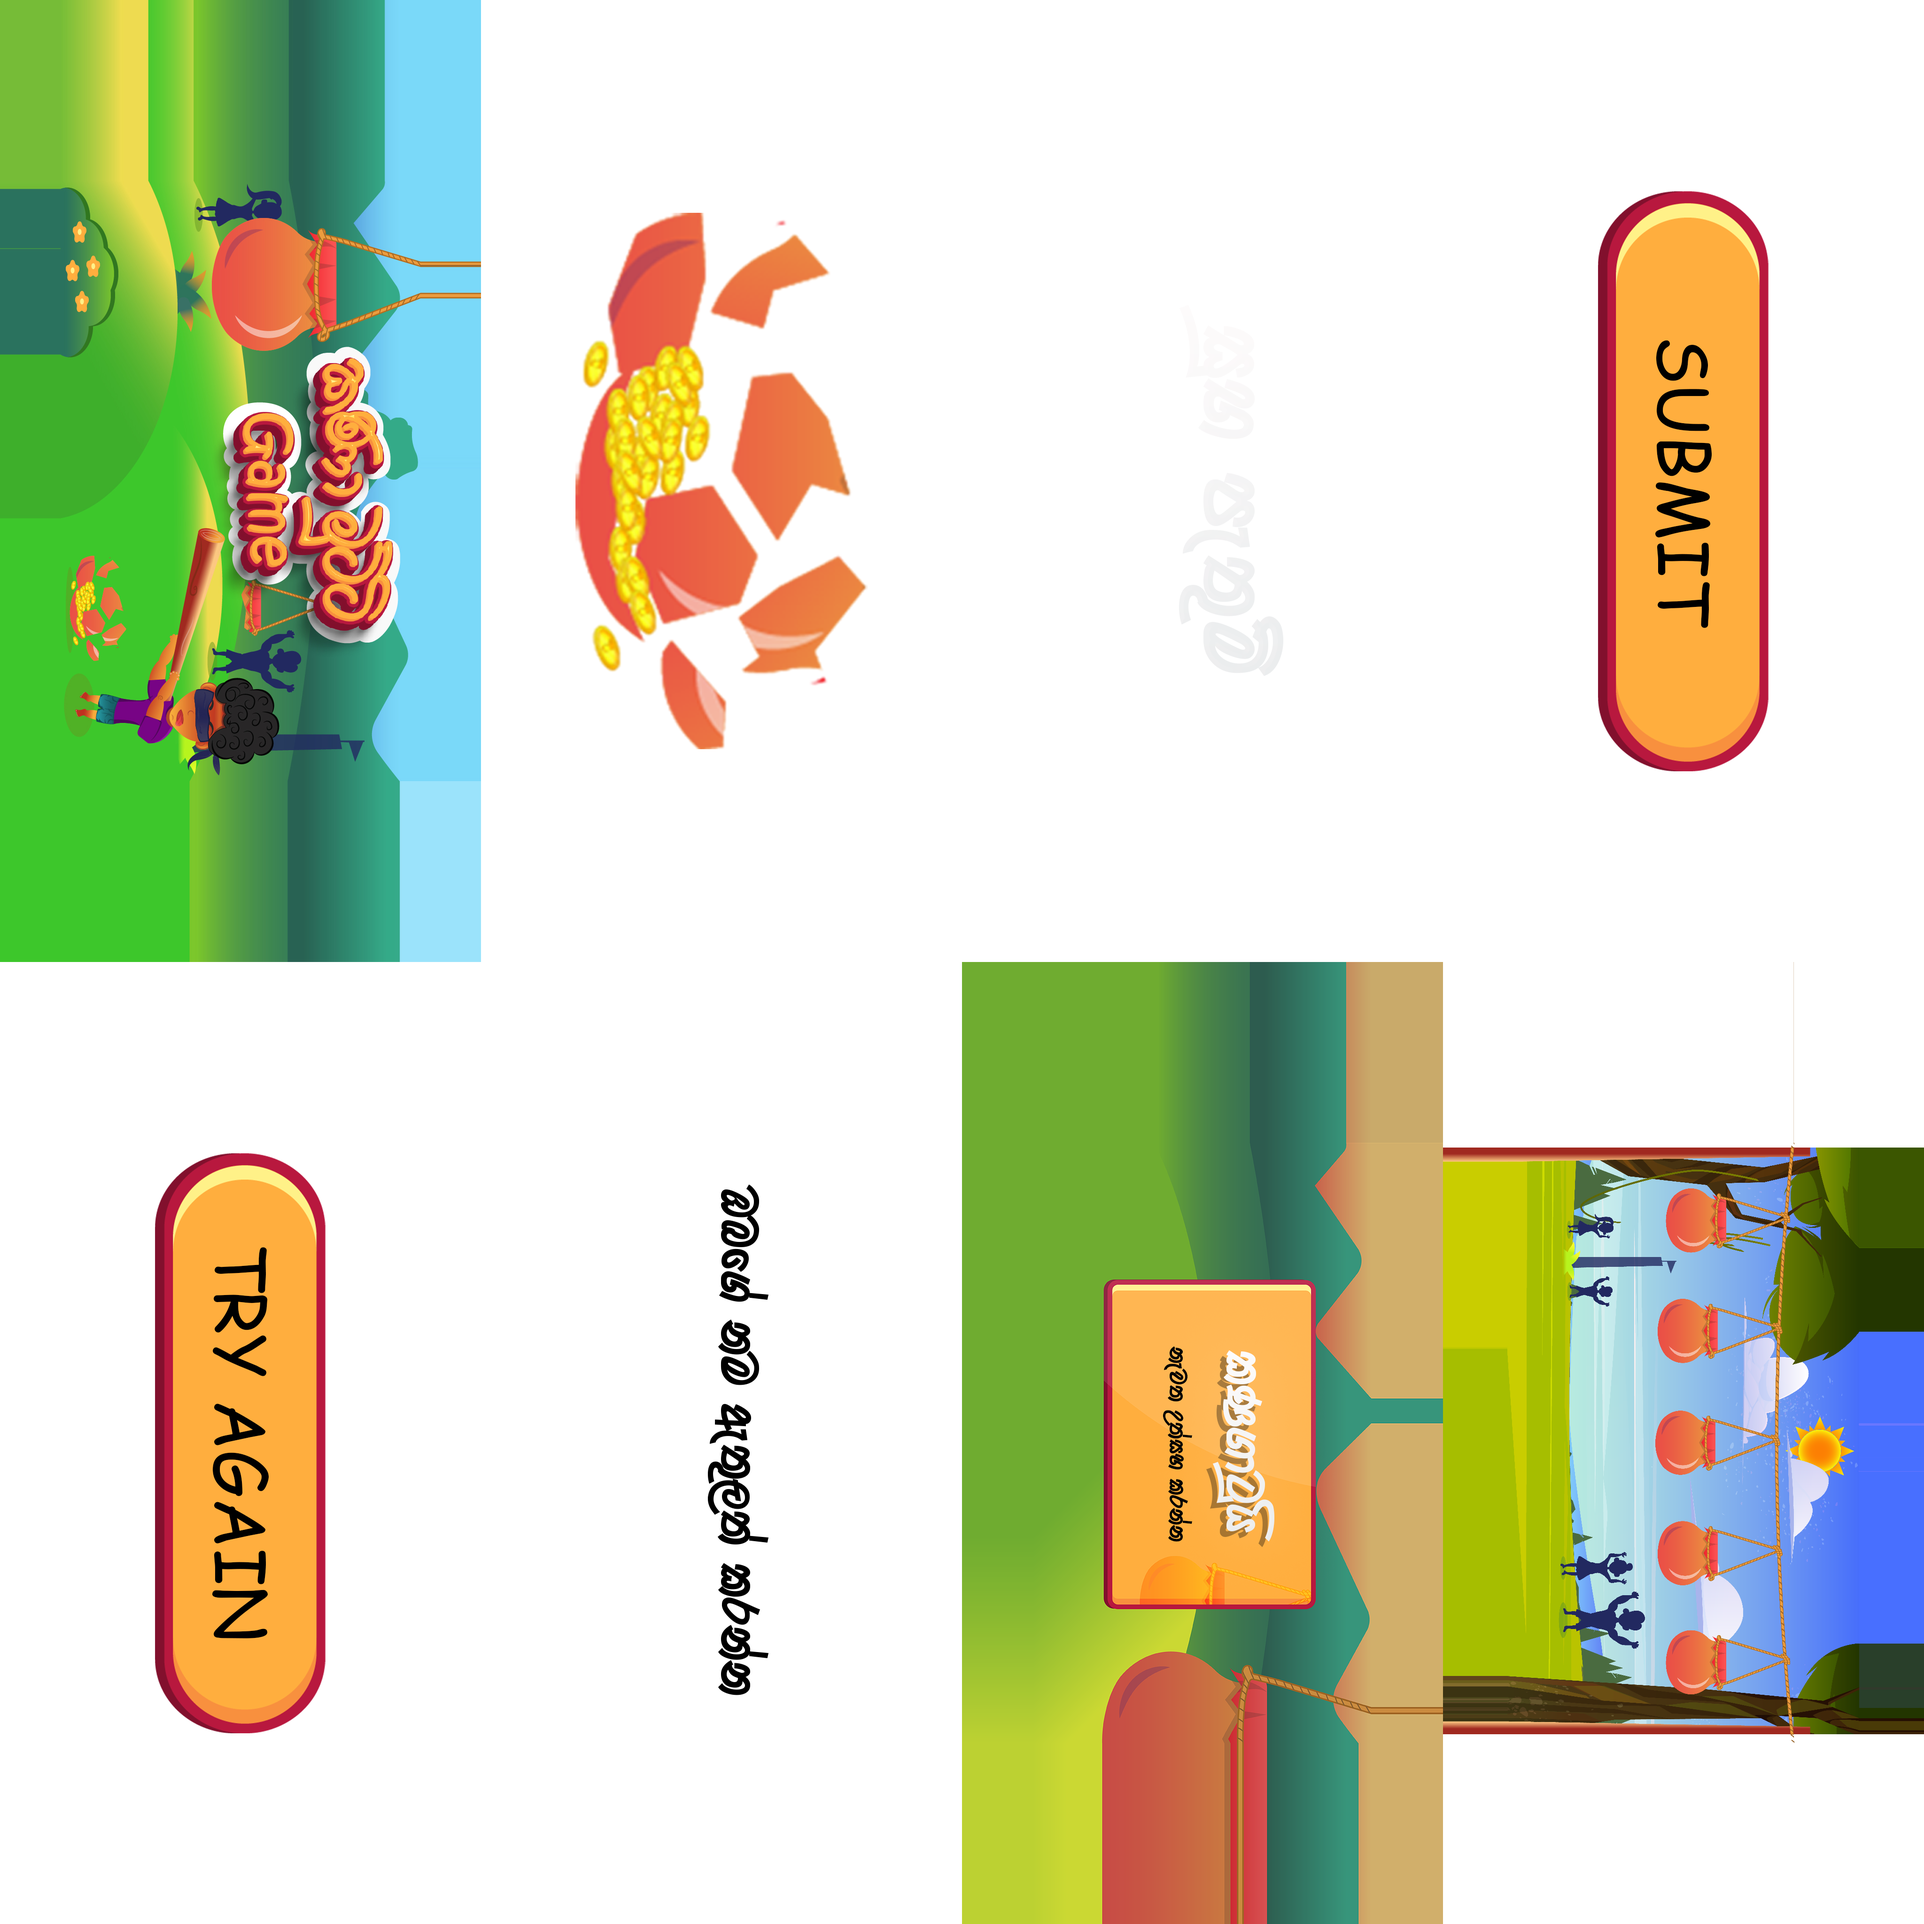
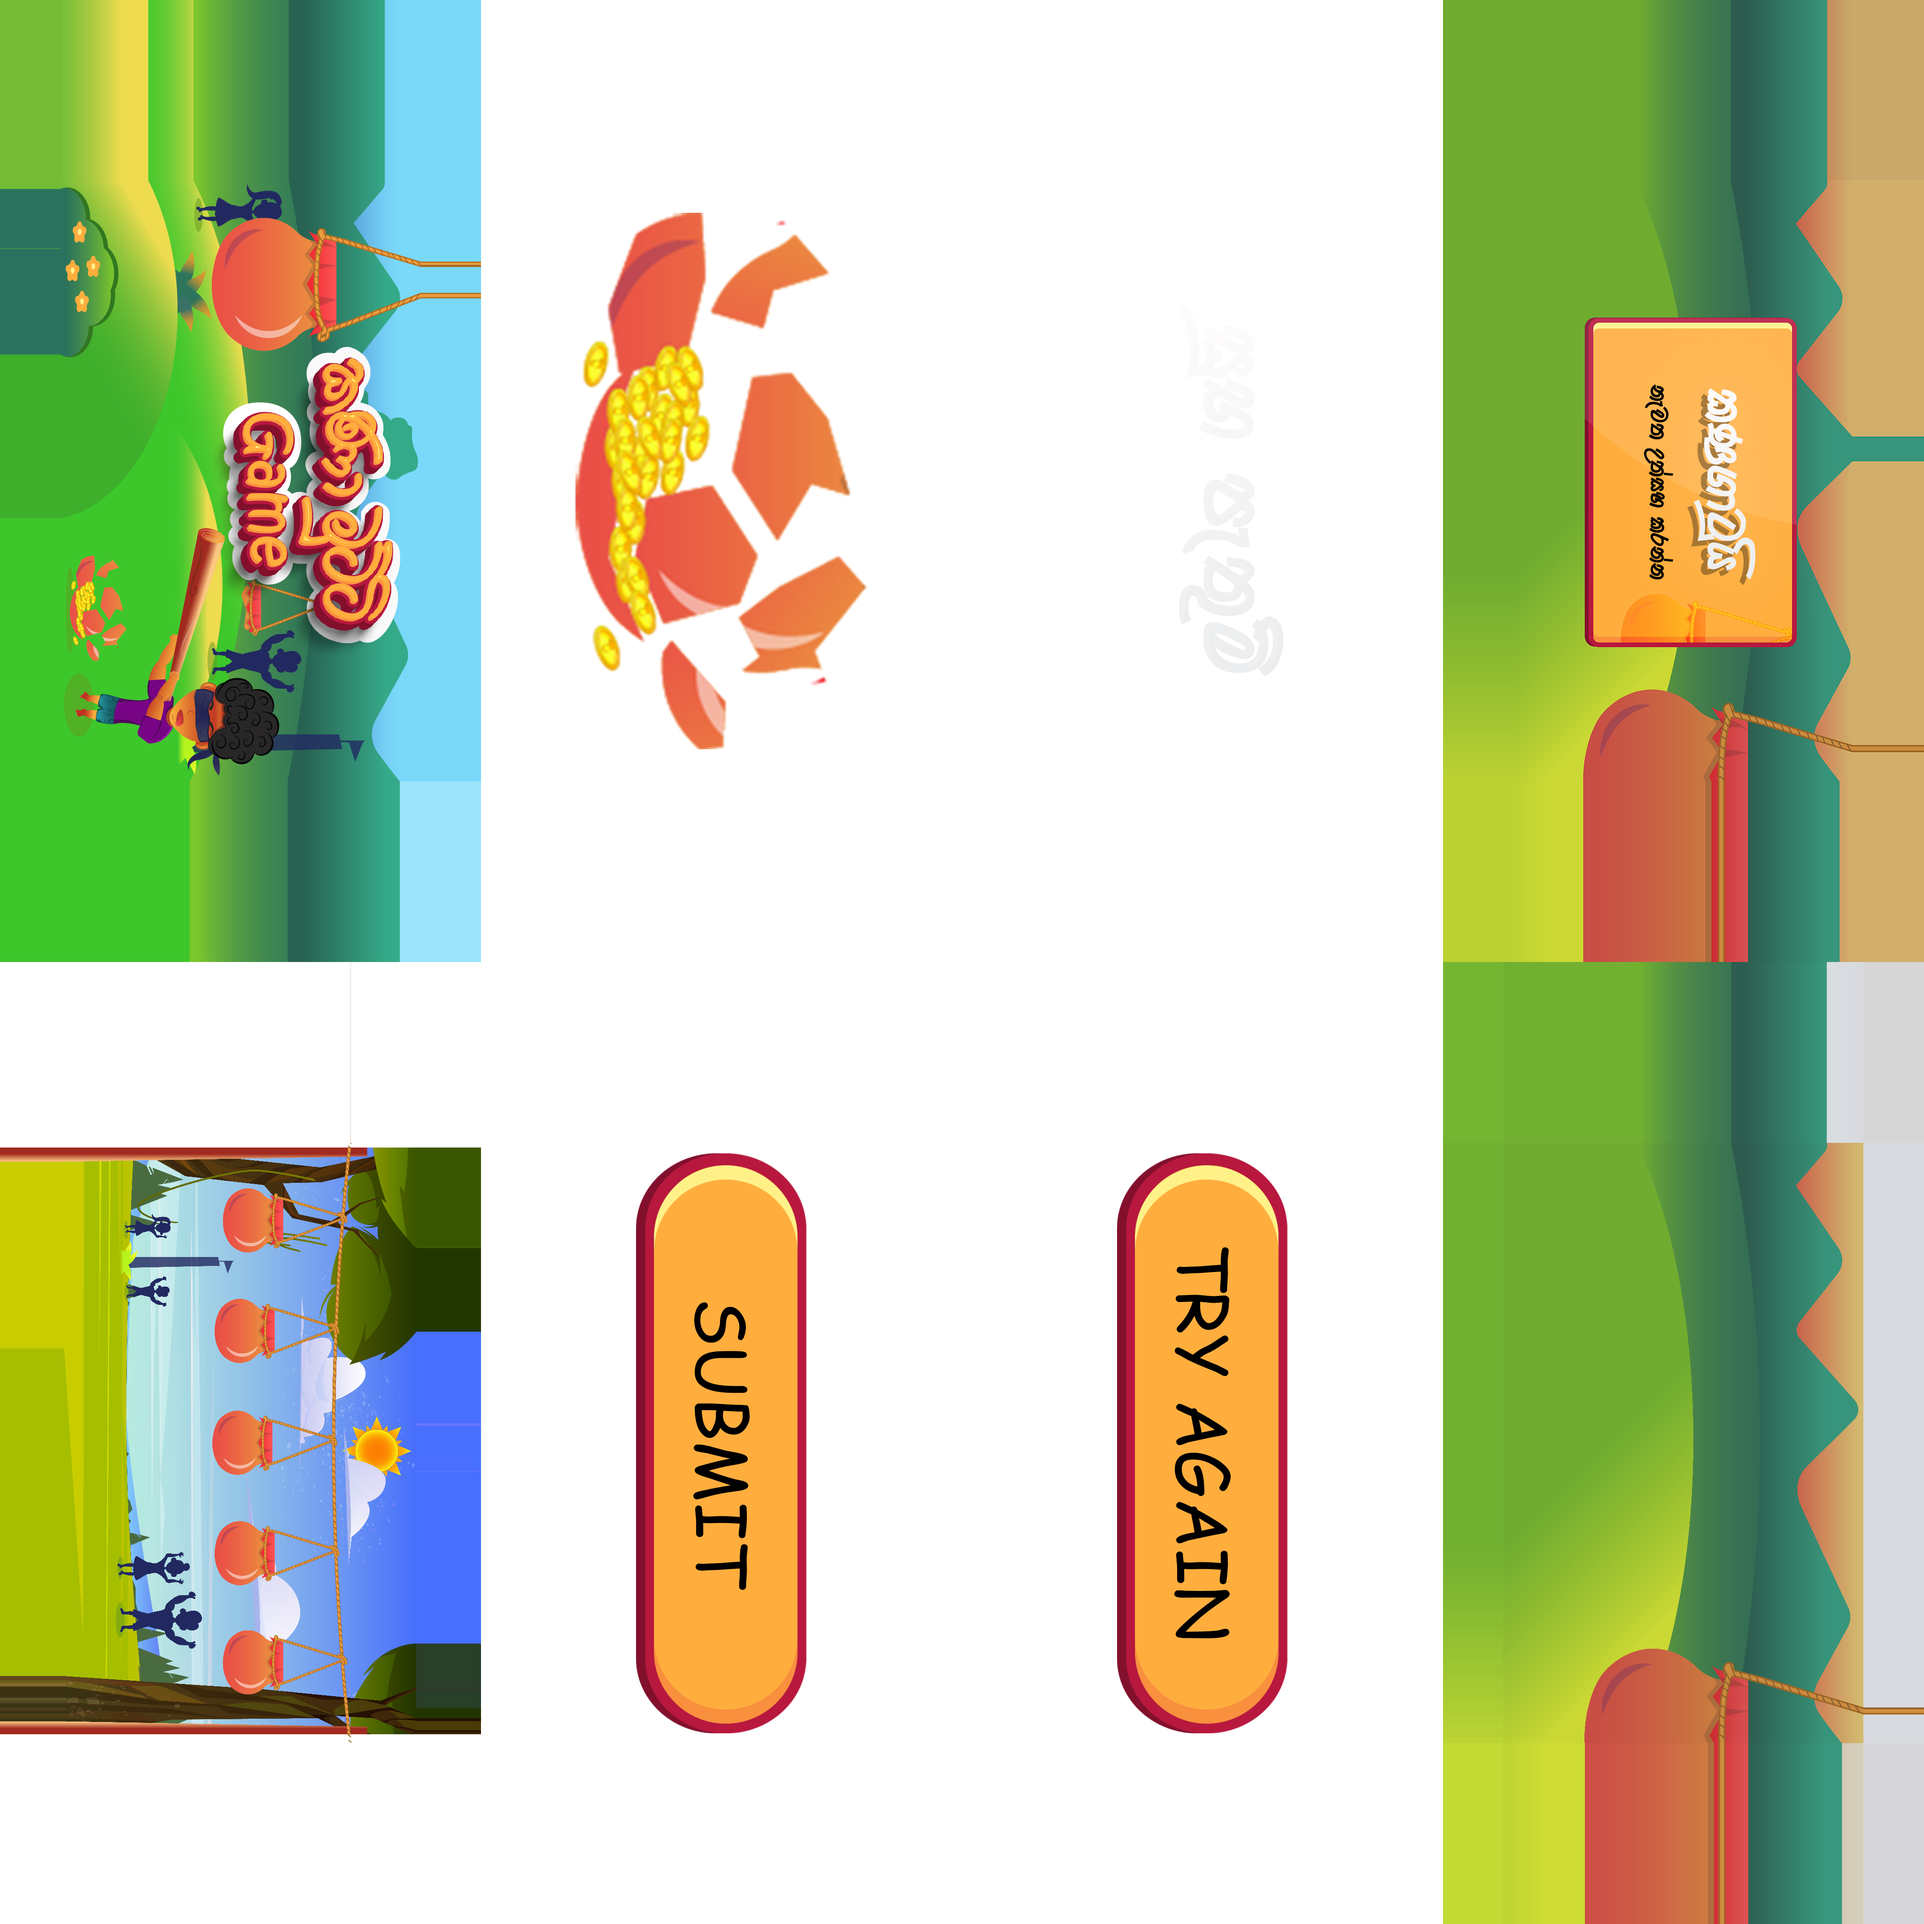
update

diff --git a/KanaMutti/scripts/c3runtime.js b/KanaMutti/scripts/c3runtime.js
@@ -4150,11 +4150,14 @@ self.C3_GetObjectRefTable = function () {
 		C3.Plugins.Text.Acts.SetText,
 		C3.Plugins.System.Acts.Wait,
 		C3.Plugins.System.Exps.random,
-		C3.Plugins.Browser.Cnds.IsPortraitLandscape,
 		C3.Plugins.System.Acts.SetLayerVisible,
 		C3.Plugins.Touch.Cnds.OnTouchStart,
 		C3.Plugins.Browser.Acts.RequestFullScreen,
 		C3.Plugins.Browser.Acts.LockOrientation,
+		C3.Plugins.Browser.Cnds.OnUpdateFound,
+		C3.Plugins.Browser.Acts.Alert,
+		C3.Plugins.Browser.Cnds.OnUpdateReady,
+		C3.Plugins.Browser.Acts.Close,
 		C3.Plugins.System.Acts.UnloadUnusedTextures,
 		C3.Plugins.System.Acts.LoadLayoutTexturesByName,
 		C3.Plugins.System.Cnds.OnImageLoadingComplete,
@@ -4165,7 +4168,6 @@ self.C3_GetObjectRefTable = function () {
 		C3.Plugins.AJAX.Acts.Post,
 		C3.Plugins.AJAX.Cnds.OnComplete,
 		C3.Plugins.AJAX.Acts.Request,
-		C3.Plugins.Browser.Acts.Alert,
 		C3.Plugins.System.Acts.SetGroupActive,
 		C3.Plugins.AJAX.Cnds.OnError,
 		C3.Plugins.Arr.Cnds.ArrForEach,
@@ -4176,18 +4178,18 @@ self.C3_GetObjectRefTable = function () {
 		C3.Plugins.System.Cnds.ForEach,
 		C3.Plugins.Arr.Exps.At,
 		C3.Plugins.Touch.Cnds.OnTouchObject,
-		C3.Plugins.Browser.Acts.Close,
 		C3.Plugins.Sprite.Acts.SetPos,
 		C3.Plugins.Sprite.Acts.SetOpacity,
 		C3.Plugins.System.Exps.choose,
 		C3.Plugins.Sprite.Acts.SetAnim,
 		C3.Plugins.Sprite.Acts.StopAnim,
+		C3.Plugins.Sprite.Acts.SetVisible,
 		C3.Plugins.Sprite.Acts.SetX,
 		C3.Plugins.Touch.Cnds.IsTouchingObject,
-		C3.Plugins.Sprite.Acts.SetVisible,
 		C3.Plugins.Text.Acts.SetVisible,
 		C3.Plugins.Sprite.Cnds.IsVisible,
 		C3.Plugins.Sprite.Acts.SetInstanceVar,
+		C3.Plugins.Sprite.Acts.SetAnimFrame,
 		C3.Plugins.System.Cnds.Compare,
 		C3.Plugins.System.Exps.len,
 		C3.Plugins.TextBox.Exps.Text,
@@ -4195,8 +4197,7 @@ self.C3_GetObjectRefTable = function () {
 		C3.Plugins.Sprite.Acts.AddInstanceVar,
 		C3.Plugins.Sprite.Exps.X,
 		C3.Plugins.Sprite.Exps.Y,
-		C3.Plugins.Sprite.Acts.StartAnim,
-		C3.Plugins.Sprite.Acts.SetAnimFrame
+		C3.Plugins.Sprite.Acts.StartAnim
 	];
 };
 self.C3_JsPropNameTable = [
@@ -4366,6 +4367,8 @@ self.C3_ExpressionFuncs = [
 		},
 		() => "Title",
 		() => "Alert-screen-for-portrait-users",
+		() => "Updating Game....",
+		() => "Downloading Updates Finished, Please Reload the Game....",
 		() => "Transitions",
 		() => 1,
 		() => 100,
@@ -4434,6 +4437,7 @@ self.C3_ExpressionFuncs = [
 		() => "character",
 		() => "char_boy",
 		() => "char_girl",
+		() => "hit",
 		() => "overlay",
 		() => "move_left",
 		() => 10,
@@ -4449,6 +4453,7 @@ self.C3_ExpressionFuncs = [
 			return () => Math.round(f0(1, 15));
 		},
 		() => "start",
+		() => 9,
 		() => "stop",
 		() => "home",
 		p => {
@@ -4458,6 +4463,7 @@ self.C3_ExpressionFuncs = [
 		},
 		() => "Your Name has been submitted, Please wait for the Annoucement!",
 		() => "Your Name must be 5 Characters long or More!",
+		() => "arrows",
 		() => 0.1,
 		() => 15,
 		p => {
